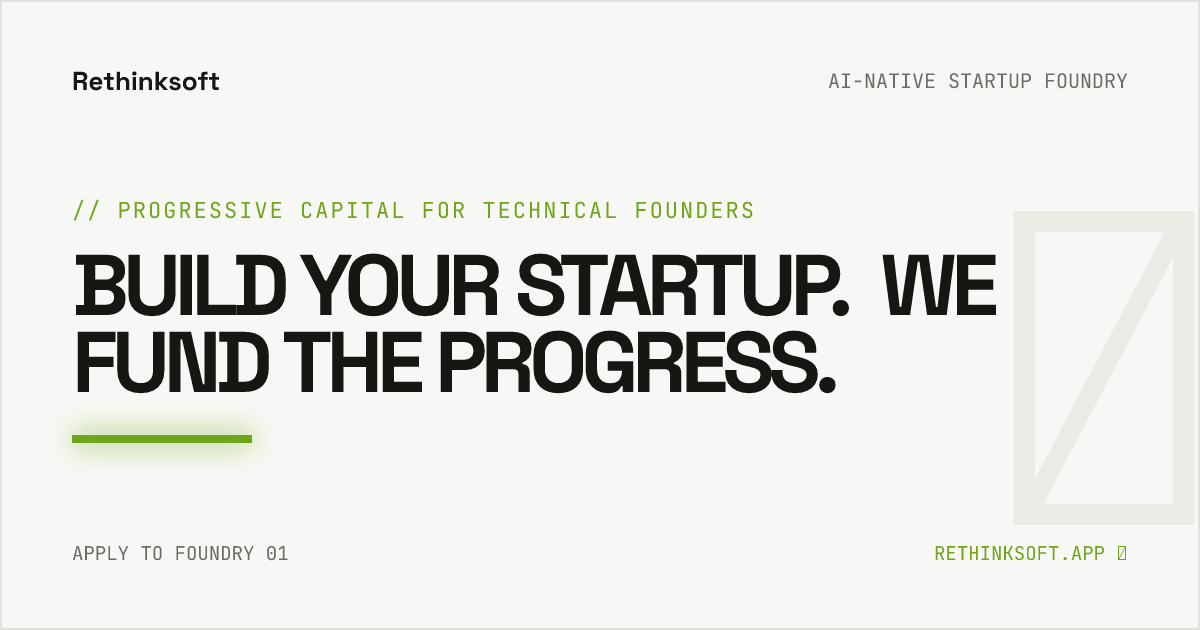
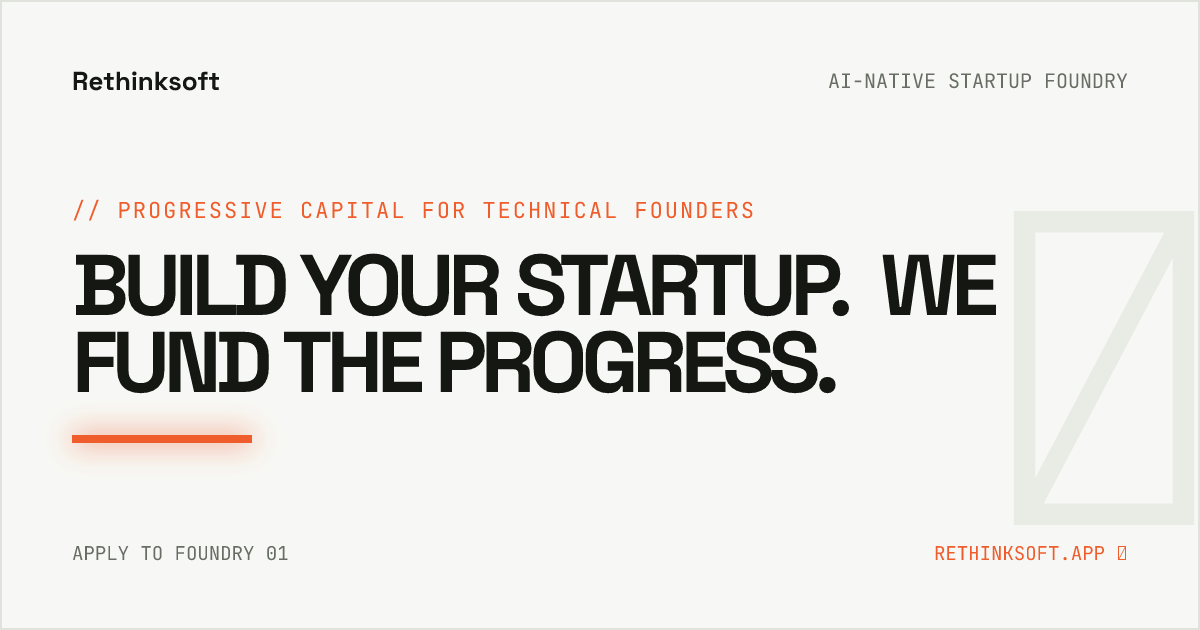
Restyle Foundry with warm Gojiberry inspired theme

Changed region(s): [[0.0925, 0.3016, 0.6167, 0.3619], [0.0617, 0.6635, 0.2158, 0.7238], [0.7708, 0.8444, 0.925, 0.9048]]

diff --git a/src/styles/foundry-goji.css b/src/styles/foundry-goji.css
@@ -1,0 +1,29 @@
+:root{--goji-orange:#f05d2c;--goji-peach:#ffb594;--goji-cream:#fff8f2;--goji-paper:#fffdfb;--goji-ink:#171514;--goji-muted:#716a66;--goji-line:#eadfd8}
+.foundry-home{background:var(--goji-paper);color:var(--goji-ink)}
+.foundry-home .site-header{z-index:20;width:min(980px,calc(100% - 32px));height:58px;margin-top:14px;padding:0 20px;border:1px solid rgba(78,52,40,.1);background:rgba(255,253,251,.88);box-shadow:0 14px 38px rgba(97,56,34,.07);backdrop-filter:blur(20px)}
+.foundry-home .site-header .brand-wordmark span{color:var(--goji-ink)}.foundry-home .site-header .brand-wordmark em{color:var(--goji-orange)}.foundry-home .site-header nav>a:not(.nav-cta){color:#514b47;font-size:11px}.foundry-home .site-header nav>a:not(.nav-cta)::after{background:var(--goji-orange)}
+.foundry-hero{min-height:auto;margin-top:-72px;padding:145px 0 0;background:radial-gradient(circle at 10% 45%,rgba(255,197,160,.42),transparent 23%),radial-gradient(circle at 88% 25%,rgba(255,156,120,.36),transparent 25%),radial-gradient(circle at 50% 52%,rgba(255,235,219,.85),transparent 35%),linear-gradient(180deg,#fff 0%,#fffaf6 62%,#fff0e7 100%);color:var(--goji-ink)}
+.foundry-grid{background-image:radial-gradient(rgba(235,91,44,.2) .7px,transparent .7px);background-size:17px 17px;mask-image:linear-gradient(to bottom,black 0%,rgba(0,0,0,.35) 55%,transparent 90%);opacity:.45}
+.foundry-hero::before{width:520px;height:520px;right:-230px;top:7%;border:0;border-radius:42% 58% 56% 44%/46% 42% 58% 54%;background:linear-gradient(135deg,rgba(255,154,113,.2),rgba(240,93,44,.05));box-shadow:none;filter:blur(2px);transform:rotate(25deg)}
+.foundry-hero::after{width:420px;height:420px;left:-240px;right:auto;top:33%;border-radius:42% 58% 45% 55%;background:linear-gradient(135deg,rgba(255,190,137,.28),rgba(240,93,44,.06));box-shadow:none;filter:blur(3px);transform:rotate(-22deg)}
+.foundry-hero-inner{min-height:auto;align-items:center;padding:58px 24px 0;text-align:center}.foundry-kicker{margin-bottom:25px;padding:8px 13px;border:1px solid rgba(240,93,44,.17);border-radius:999px;background:rgba(255,255,255,.75);color:#765e52;box-shadow:0 8px 25px rgba(102,58,34,.05)}.foundry-kicker span{background:var(--goji-orange);box-shadow:0 0 0 5px rgba(240,93,44,.09)}
+.foundry-hero h1{max-width:950px;font-size:clamp(56px,7.5vw,96px);font-weight:560;line-height:.94}.foundry-hero h1 em{color:var(--goji-orange)}.foundry-lede{max-width:670px;margin-top:27px;color:#6f665f;font-size:16px}.foundry-actions{margin-top:30px}.foundry-primary{background:var(--goji-ink);color:#fff;box-shadow:0 13px 30px rgba(34,24,19,.18)}.foundry-primary:hover{background:var(--goji-orange);color:#fff}.foundry-secondary{border-color:#dbcec6;background:rgba(255,255,255,.7);color:#3e3936}.foundry-secondary:hover{border-color:#bfaea4;color:var(--goji-orange)}
+.foundry-preview{position:relative;width:min(850px,92vw);margin-top:72px}.preview-window{position:relative;z-index:2;overflow:hidden;border:1px solid #e4d7cf;border-radius:18px;background:#fff;box-shadow:0 40px 100px rgba(112,61,35,.18),0 5px 20px rgba(112,61,35,.08);transform:perspective(1200px) rotateX(2deg)}.preview-bar{display:grid;height:43px;padding:0 14px;grid-template-columns:1fr auto 1fr;align-items:center;border-bottom:1px solid #ede4de;background:#fffaf7;color:#9a8d85;font-family:'JetBrains Mono',monospace;font-size:7px}.preview-bar>span{display:flex;gap:5px}.preview-bar i{width:7px;height:7px;border-radius:50%;background:#e7d8cf}.preview-bar i:first-child{background:#f1815b}.preview-bar b{justify-self:end;padding:5px 8px;border-radius:999px;background:#fbe6dc;color:var(--goji-orange);font-size:7px}.preview-body{display:grid;padding:25px;grid-template-columns:1.3fr .55fr;gap:20px;text-align:left}.preview-company{display:flex;align-items:center;gap:13px}.preview-company>span{display:grid;width:46px;height:46px;place-items:center;border-radius:12px;background:#fff0e7;color:var(--goji-orange);font-size:13px;font-weight:750}.preview-company div{display:flex;flex-direction:column}.preview-company small,.preview-score small,.preview-unlock small{color:#9c8f88;font-family:'JetBrains Mono',monospace;font-size:7px;letter-spacing:.06em}.preview-company strong{margin-top:5px;font-size:16px}.preview-company p{margin:4px 0 0;color:#948780;font-size:8px}.preview-score{display:grid;padding-left:24px;grid-row:1/3;grid-column:2;border-left:1px solid #eee4dd}.preview-score>strong{margin-top:13px;font-size:55px;font-weight:560;line-height:1;letter-spacing:-.06em}.preview-score>strong span{color:#9e918a;font-size:10px}.preview-score>b{align-self:end;width:max-content;padding:5px 8px;border-radius:999px;background:#fff0e6;color:#c45229;font-family:'JetBrains Mono',monospace;font-size:7px}.preview-agents{display:grid;margin-top:12px;grid-template-columns:repeat(4,1fr);border-top:1px solid #eee4dd;border-bottom:1px solid #eee4dd}.preview-agents span{display:flex;padding:14px 9px;flex-direction:column;border-right:1px solid #eee4dd;color:#a09189;font-family:'JetBrains Mono',monospace;font-size:6px}.preview-agents span:last-child{border-right:0}.preview-agents b{margin-top:5px;color:#2b2623;font-size:12px}.preview-unlock{display:flex;padding:15px 17px;grid-column:1/-1;align-items:center;justify-content:space-between;border:1px solid #f0d7c8;border-radius:10px;background:#fff8f3}.preview-unlock div{display:flex;flex-direction:column;gap:5px}.preview-unlock strong{font-size:10px}.preview-unlock>span{padding:7px 9px;border-radius:999px;background:#171514;color:#fff;font-family:'JetBrains Mono',monospace;font-size:7px}
+.preview-float{position:absolute;z-index:3;display:flex;border:1px solid #eadbd2;border-radius:12px;background:rgba(255,255,255,.94);box-shadow:0 18px 45px rgba(100,55,32,.14);backdrop-filter:blur(16px);text-align:left}.preview-float-left{left:-82px;bottom:54px;padding:13px 16px;align-items:center;gap:10px}.preview-float-left>span{display:grid;width:28px;height:28px;place-items:center;border-radius:50%;background:#f0f8dc;color:#70932d;font-size:11px}.preview-float div{display:flex;flex-direction:column}.preview-float small{color:#a19289;font-family:'JetBrains Mono',monospace;font-size:6px}.preview-float strong{margin-top:4px;font-size:9px}.preview-float-right{right:-65px;top:50px;padding:14px 17px;flex-direction:column}.preview-float-right strong{margin:5px 0 3px;color:var(--goji-orange);font-size:23px}.preview-float-right span{color:#9c8e87;font-size:8px}
+.foundry-proof{width:min(900px,100%);margin-top:60px;border-color:#e8d8ce}.foundry-proof span{color:#9a8980}.foundry-proof b{color:#312b28}
+@media(max-width:760px){.foundry-home .site-header{background:rgba(255,253,251,.95)}.foundry-home .site-header>nav{background:#fffaf7}.foundry-hero{margin-top:-76px;padding-top:128px}.foundry-hero-inner{min-height:auto;padding:50px 16px 0}.foundry-hero h1{font-size:clamp(46px,13vw,62px)}.foundry-preview{margin-top:54px}.preview-body{grid-template-columns:1fr;padding:17px}.preview-score{grid-row:auto;grid-column:auto;padding:17px 0 0;border-top:1px solid #eee4dd;border-left:0}.preview-agents{grid-template-columns:repeat(2,1fr)}.preview-unlock{align-items:flex-start;flex-direction:column;gap:12px}.preview-float{display:none}.foundry-proof{margin-top:42px}}
+
+/* Warm Foundry system */
+.foundry-home .section{padding-block:124px}.foundry-home h2 em{color:var(--goji-orange)}.foundry-section-code{color:var(--goji-orange)}.foundry-section-head>p{color:var(--goji-muted)}
+.foundry-thesis{position:relative;overflow:hidden;background:#fff}.foundry-thesis::after{position:absolute;width:360px;height:360px;right:-220px;bottom:-180px;border-radius:45% 55% 60% 40%;background:linear-gradient(135deg,rgba(255,170,127,.28),rgba(255,232,216,.15));content:'';transform:rotate(24deg)}.thesis-layout{position:relative;z-index:1}.thesis-layout>div:nth-child(2)>p{color:var(--goji-muted)}.thesis-equation{border-color:var(--goji-line)}.thesis-equation span{border-color:var(--goji-line)}.thesis-equation strong{border-color:#f2c5ae;background:linear-gradient(100deg,#fff1e7,#ffd5bf);color:#a83b18}
+.foundry-model{background:#fff8f3}.foundry-steps{border-color:#eadbd2}.foundry-steps article{border-color:#eadbd2;background:rgba(255,255,255,.35)}.foundry-steps article:hover{background:#fff}.step-glyph{border-color:#dfc7ba;color:var(--goji-orange)}.foundry-steps article:hover .step-glyph{border-color:var(--goji-orange);background:var(--goji-orange);color:#fff;box-shadow:0 13px 30px rgba(240,93,44,.2)}.foundry-steps p{color:var(--goji-muted)}
+.committee-section{position:relative;background:radial-gradient(circle at 8% 12%,rgba(255,166,124,.2),transparent 26%),radial-gradient(circle at 92% 83%,rgba(255,204,174,.35),transparent 28%),#fff;color:var(--goji-ink)}.committee-section::before{position:absolute;inset:0;background-image:radial-gradient(rgba(240,93,44,.16) .7px,transparent .7px);background-size:18px 18px;mask-image:linear-gradient(90deg,black,transparent 28%,transparent 72%,black);content:'';opacity:.35}.committee-layout{position:relative;z-index:1}.committee-copy .foundry-section-code{color:var(--goji-orange)}.committee-copy>p:not(.foundry-section-code){color:var(--goji-muted)}.human-decision>span{border-color:#efc5b0;background:#fff5ee;color:var(--goji-orange)}.human-decision p{color:#95877f}.agent-console{border-color:#e7d9d0;background:#fff;box-shadow:0 34px 100px rgba(103,56,32,.13)}.console-top{border-color:#eee3dc;background:#fffaf7;color:#95877f}.console-live i{background:var(--goji-orange);box-shadow:0 0 12px rgba(240,93,44,.5)}.agent-grid article{border-color:#eee3dc;background:#fff}.agent-grid article>span,.red-team>span{color:#b09f96}.agent-grid h3,.red-team h3{color:var(--goji-ink)}.agent-grid p,.red-team p{color:#8b7e77}.agent-grid small{color:#c65328}.red-team{background:#fff3eb}.red-team h3{color:#c6491e}.red-team>strong{border-color:#efbea7;background:#fff;color:#c6491e}
+.score-section{background:linear-gradient(180deg,#fff7f2,#fff)}.score-card{border-color:#edd8cb;background:#fff;box-shadow:0 30px 80px rgba(110,59,32,.12)}.score-status i{background:var(--goji-orange);box-shadow:0 0 0 6px rgba(240,93,44,.1)}.score-status span,.score-next>span{color:#b6441c}.score-copy>p:not(.foundry-section-code,.score-note){color:var(--goji-muted)}.score-bars i{background:#f0e3db}.score-bars b{background:linear-gradient(90deg,#f9a17c,var(--goji-orange))}.score-note{border-color:#eadcd3;color:#8b7f78!important}
+.capital-section{background:#fff}.capital-roadmap article{border-color:#eadcd3;background:#fffaf7;box-shadow:0 14px 38px rgba(90,53,33,.035)}.capital-roadmap article.active{border-color:#f0a584;background:linear-gradient(145deg,#fff5ee,#ffe0d0);box-shadow:0 18px 48px rgba(240,93,44,.1)}.capital-roadmap article>strong{color:var(--goji-orange)}.capital-roadmap p{color:var(--goji-muted)}.capital-principle{border-color:#e8d8cf;background:#fff8f3;color:#6b5f58}
+.founder-fit{position:relative;overflow:hidden;background:#fff8f3}.founder-fit::before{position:absolute;width:440px;height:440px;left:-310px;bottom:-180px;border-radius:42% 58% 53% 47%;background:linear-gradient(135deg,rgba(255,160,116,.25),rgba(255,236,224,.15));content:'';transform:rotate(-24deg)}.fit-layout{position:relative;z-index:1}.fit-layout>div:first-child>p:not(.foundry-section-code),.fit-list p{color:var(--goji-muted)}.fit-layout>div:first-child>a{border-color:#d99f82;color:#b4461f}.fit-list,.fit-list article{border-color:#e6d8cf}.fit-list article{transition:padding .2s,background .2s}.fit-list article:hover{padding-inline:18px;border-radius:12px;background:#fff}.fit-list span{color:#bd8a72}
+.pilot-section{background:#fff}.pilot-banner{background:radial-gradient(circle at 84% 82%,rgba(255,255,255,.35),transparent 28%),radial-gradient(circle at 13% 12%,rgba(255,211,187,.72),transparent 35%),linear-gradient(135deg,#ffb48f 0%,#f47746 62%,#e95725 100%);color:#201714;box-shadow:0 35px 90px rgba(170,72,31,.2)}.pilot-banner .foundry-section-code{color:#7d3015}.pilot-banner h2{color:#201714}.pilot-details>p{color:#63331f}.pilot-details>div,.pilot-details span{border-color:rgba(72,31,15,.18)}.pilot-details span{color:#6b3823}.pilot-details strong{color:#fff}.pilot-kpi span{color:#bc431c}.pilot-kpi i{color:#8b7c74}
+.faq-section{background:#fff8f3}.foundry-faq,.foundry-faq details{border-color:#e5d6cd}.foundry-faq summary span{color:#bf8c73}.foundry-faq summary i{color:var(--goji-orange)}.foundry-faq details>p{color:var(--goji-muted)}
+.foundry-apply{position:relative;overflow:hidden;background:radial-gradient(circle at 12% 50%,rgba(255,255,255,.78),transparent 34%),radial-gradient(circle at 90% 20%,rgba(255,190,155,.6),transparent 30%),linear-gradient(120deg,#fff8f3 0%,#ffe5d7 52%,#ffb089 100%);color:var(--goji-ink)}.foundry-apply::after{position:absolute;width:380px;height:380px;right:-220px;bottom:-200px;border-radius:42% 58% 45% 55%;background:rgba(240,93,44,.16);content:'';transform:rotate(24deg)}.apply-layout{position:relative;z-index:1}.apply-layout h2 em{color:var(--goji-orange)}.apply-layout>div>p:not(.foundry-section-code){color:#766a63}.foundry-apply-form label{color:#9a7f70}.foundry-apply-form input[type=email]{border-color:#dfc4b6;background:rgba(255,255,255,.8);color:var(--goji-ink)}.foundry-apply-form button{background:var(--goji-ink);color:#fff}.foundry-apply-form button:hover{background:var(--goji-orange);color:#fff}.foundry-apply-form>p{color:#8c766a}
+.preview-float-left>span{background:#fff0e8;color:var(--goji-orange)}
+.foundry-home .site-footer{background:#fff;color:var(--goji-ink)}.foundry-home .site-footer::before{background:#eadbd2}.foundry-home .site-footer .brand-wordmark span{color:var(--goji-ink)}.foundry-home .site-footer .brand-wordmark em{color:var(--goji-orange)}.foundry-home .site-footer p,.foundry-home .site-footer a,.foundry-home .footer-line{color:#756a64}.foundry-home .footer-line{border-color:#eadbd2}
+@media(max-width:800px){.foundry-home .section{padding-block:86px}.committee-section::before{display:none}.pilot-banner{box-shadow:0 22px 60px rgba(170,72,31,.16)}}
